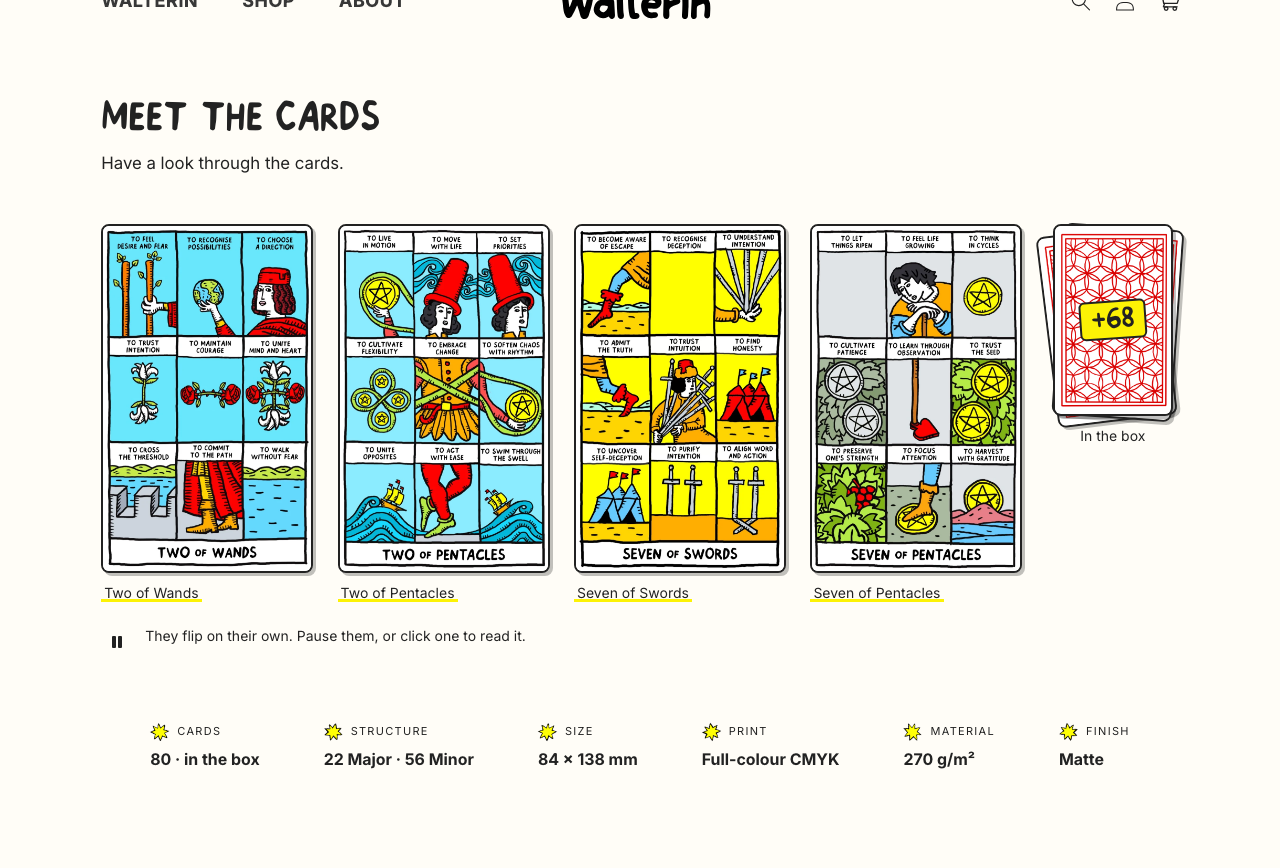
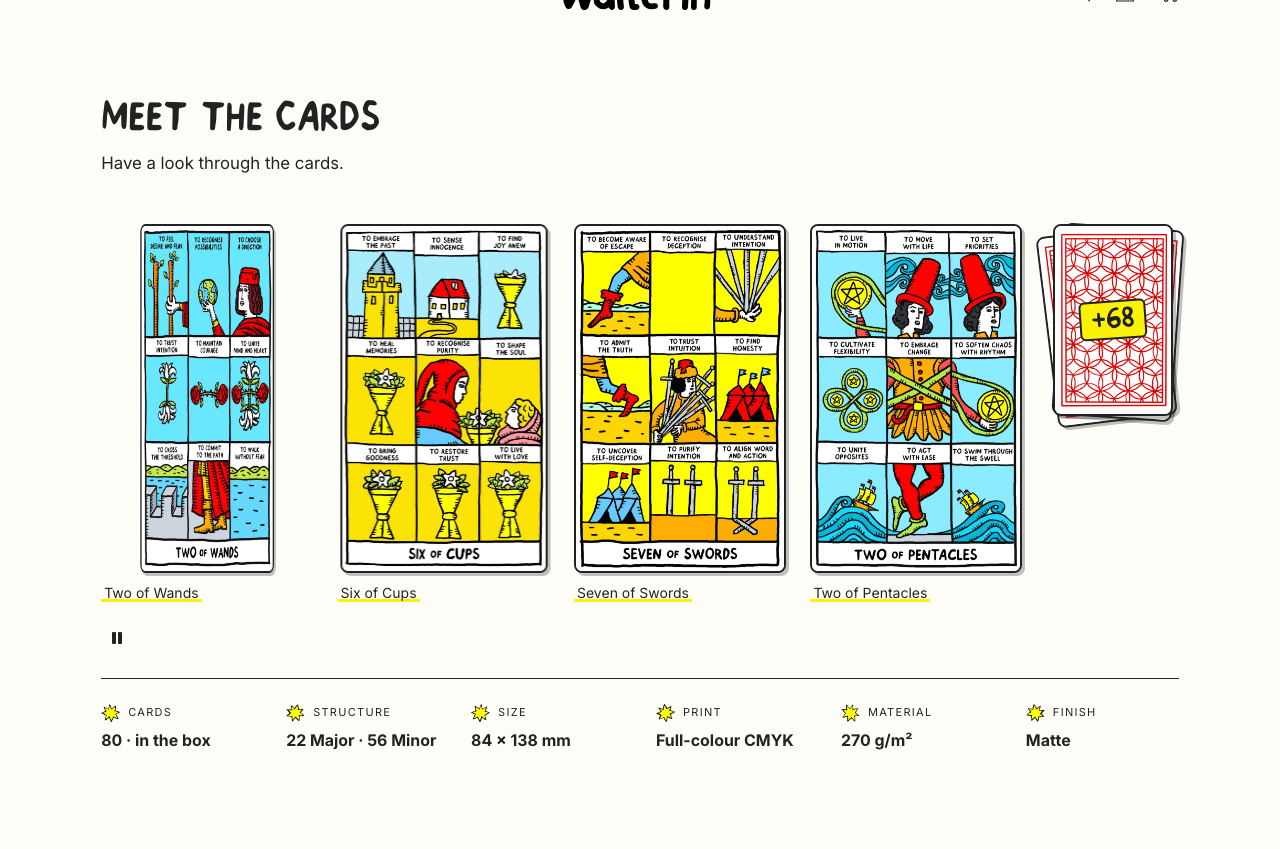
S3: pile riffles, tilt eased everywhere, spec strip aligned and closer
- the pile loses its caption and riffles when pointed at: the three backs fan out in sequence and
  the +68 badge grows a little; on touch a tap riffles it for 2.6s
- tilt: every card keeps its own value and eases to its own target, so entering, crossing to a
  neighbour and leaving the row are all the same gentle move; no card is ever reset in one step,
  and a per-frame cap keeps the entry from snapping (biggest jump 2.21° → 0.46°)
- the sheen and the shadow fade over 280ms instead of 160ms; at rest the stage hands the transform
  back to a 450ms CSS ease
- spec strip: a grid across the content width with a hairline above it, so it starts and ends on
  the same edges as the cards (both 107.6 / 1332.4 at 1440); gap to the row 80px → 68px

diff --git a/assets/walterin-cards.js b/assets/walterin-cards.js
@@ -155,60 +155,87 @@
     var row = $('[data-wui-row]', root);
     row.addEventListener('pointerleave', function () { resetTilt(); });
     row.addEventListener('pointercancel', function () { resetTilt(); });
+    row.addEventListener('scroll', function () { resetTilt(); }, { passive: true });
     window.addEventListener('blur', function () { resetTilt(); });
 
-    /* ---------- tilt: one card at a time, interpolated, never during a flip ---------- */
-    var tiltEl = null, tiltSlot = -1, target = { x: 0, y: 0 }, cur = { x: 0, y: 0 }, raf = null;
-    function writeTilt(el, x, y, mx, my) {
-      el.style.setProperty('--wui-rx', (x * TILT).toFixed(2) + 'deg');
-      el.style.setProperty('--wui-ry', (-y * TILT).toFixed(2) + 'deg');
-      el.style.setProperty('--wui-rxn', x.toFixed(3));
-      el.style.setProperty('--wui-mxn', x.toFixed(3));
-      if (mx != null) {
-        el.style.setProperty('--wui-mx', (mx * 100).toFixed(1) + '%');
-        el.style.setProperty('--wui-my', (my * 100).toFixed(1) + '%');
-      }
+    /* ---------- tilt ----------
+       Every card keeps its own value and eases towards its own target, so entering a card,
+       sliding to its neighbour and leaving the row are all the same gentle movement. Nothing
+       is ever reset in one step. */
+    var tilt = slots.map(function () { return { tx: 0, ty: 0, cx: 0, cy: 0, el: null, on: false }; });
+    var raf = null;
+    var CATCH = 0.20;   // while the pointer is on the card
+    var LETGO = 0.12;   // easing back to rest
+    var MAX_STEP = 0.035; // never move more than this much of the range in one frame (~0.9°)
+
+    function writeTilt(t) {
+      if (!t.el) return;
+      t.el.style.setProperty('--wui-rx', (t.cx * TILT).toFixed(2) + 'deg');
+      t.el.style.setProperty('--wui-ry', (-t.cy * TILT).toFixed(2) + 'deg');
+      t.el.style.setProperty('--wui-rxn', t.cx.toFixed(3));
+      t.el.style.setProperty('--wui-mxn', t.cx.toFixed(3));
     }
-    function step() {
-      if (!tiltEl) { raf = null; return; }
-      cur.x += (target.x - cur.x) * FOLLOW;           // catches up fast, but never in one jump
-      cur.y += (target.y - cur.y) * FOLLOW;
-      writeTilt(tiltEl, cur.x, cur.y);
-      if (Math.abs(target.x - cur.x) < 0.002 && Math.abs(target.y - cur.y) < 0.002) {
-        writeTilt(tiltEl, target.x, target.y);
-        raf = null;
-        if (target.x === 0 && target.y === 0) { tiltEl.classList.remove('is-tilting'); tiltEl = null; tiltSlot = -1; }
-        return;
-      }
-      raf = requestAnimationFrame(step);
+    function loop() {
+      var busy = false;
+      tilt.forEach(function (t) {
+        if (!t.el) return;
+        var k = t.on ? CATCH : LETGO;
+        var dx = (t.tx - t.cx) * k, dy = (t.ty - t.cy) * k;
+        dx = Math.max(-MAX_STEP, Math.min(MAX_STEP, dx));   // a cap, so entering a card can't snap
+        dy = Math.max(-MAX_STEP, Math.min(MAX_STEP, dy));
+        t.cx += dx;
+        t.cy += dy;
+        var settled = Math.abs(t.tx - t.cx) < 0.0015 && Math.abs(t.ty - t.cy) < 0.0015;
+        if (settled) { t.cx = t.tx; t.cy = t.ty; }
+        writeTilt(t);
+        if (settled && !t.on && t.tx === 0 && t.ty === 0) {
+          t.el.classList.remove('is-tilting');   // hand it back to the CSS transition at rest
+        } else {
+          busy = true;
+        }
+      });
+      raf = busy ? requestAnimationFrame(loop) : null;
     }
-    function resetTilt(onlyEl) {
-      if (!tiltEl) return;
-      if (onlyEl && !onlyEl.contains(tiltEl)) return;
-      target.x = 0; target.y = 0;
-      if (!raf) raf = requestAnimationFrame(step);
-    }
-    function hardReset(el) {
-      el.style.setProperty('--wui-rx', '0deg');
-      el.style.setProperty('--wui-ry', '0deg');
-      el.style.setProperty('--wui-rxn', '0');
-      el.classList.remove('is-tilting');
-    }
+    function nudge() { if (!raf) raf = requestAnimationFrame(loop); }
+
     if (!reduce) slots.forEach(function (el, i) {
-      var t = $('[data-wui-tilt]', el);          // the stage, not the button: tilt survives a flip
+      var stage = $('[data-wui-tilt]', el);
+      tilt[i].el = stage;
+      el.addEventListener('pointerenter', function (e) {
+        if (e.pointerType === 'touch') return;
+        tilt[i].on = true;
+        stage.classList.add('is-tilting');
+      });
       el.addEventListener('pointermove', function (e) {
         if (e.pointerType === 'touch') return;
-        if (tiltEl && tiltEl !== t) { hardReset(tiltEl); }   // only ever one tilted card
-        if (tiltEl !== t) { cur.x = 0; cur.y = 0; tiltEl = t; tiltSlot = i; t.classList.add('is-tilting'); }
-        var r = t.getBoundingClientRect();
+        var r = stage.getBoundingClientRect();
         var x = (e.clientX - r.left) / r.width, y = (e.clientY - r.top) / r.height;
-        target.x = Math.max(-0.5, Math.min(0.5, x - 0.5));
-        target.y = Math.max(-0.5, Math.min(0.5, y - 0.5));
-        writeTilt(t, cur.x, cur.y, x, y);
-        if (!raf) raf = requestAnimationFrame(step);
+        tilt[i].on = true;
+        tilt[i].tx = Math.max(-0.5, Math.min(0.5, x - 0.5));
+        tilt[i].ty = Math.max(-0.5, Math.min(0.5, y - 0.5));
+        stage.style.setProperty('--wui-mx', (x * 100).toFixed(1) + '%');
+        stage.style.setProperty('--wui-my', (y * 100).toFixed(1) + '%');
+        stage.classList.add('is-tilting');
+        nudge();
       });
-      el.addEventListener('pointerleave', function () { resetTilt(); });
+      function release() { tilt[i].on = false; tilt[i].tx = 0; tilt[i].ty = 0; nudge(); }
+      el.addEventListener('pointerleave', release);
+      el.addEventListener('pointercancel', release);
     });
+    function resetTilt() { tilt.forEach(function (t) { t.on = false; t.tx = 0; t.ty = 0; }); nudge(); }
+    window.addEventListener('blur', resetTilt);
+
+    /* ---------- the pile riffles on touch too ---------- */
+    var pile = $('[data-wui-pile]', root);
+    if (pile) {
+      var riffle = null;
+      pile.addEventListener('pointerdown', function (e) {
+        if (e.pointerType !== 'touch') return;
+        pile.classList.add('is-riffling');
+        clearTimeout(riffle);
+        riffle = setTimeout(function () { pile.classList.remove('is-riffling'); }, 2600);
+      });
+    }
 
     /* ---------- the hint fades once, then never comes back ---------- */
     var hint = $('[data-wui-hint]', root);
